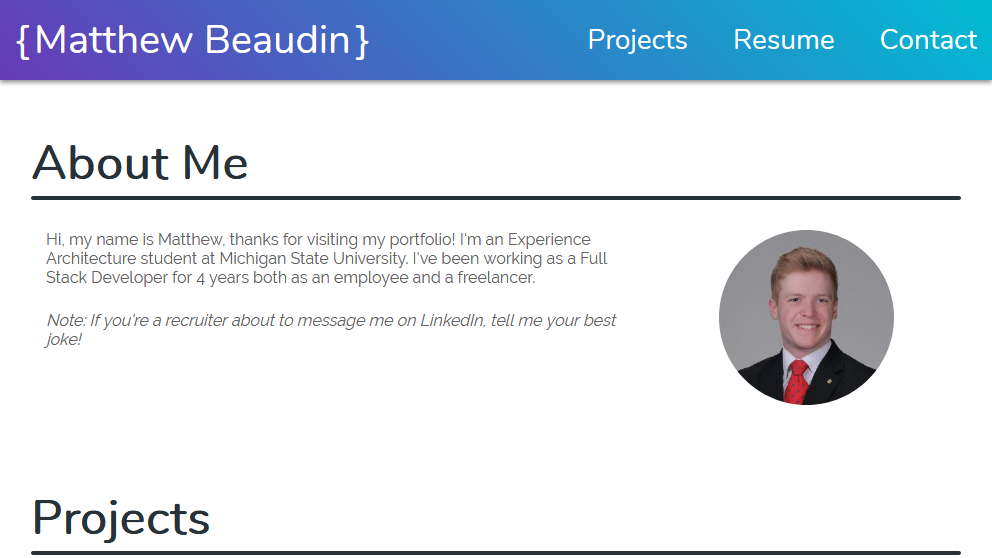
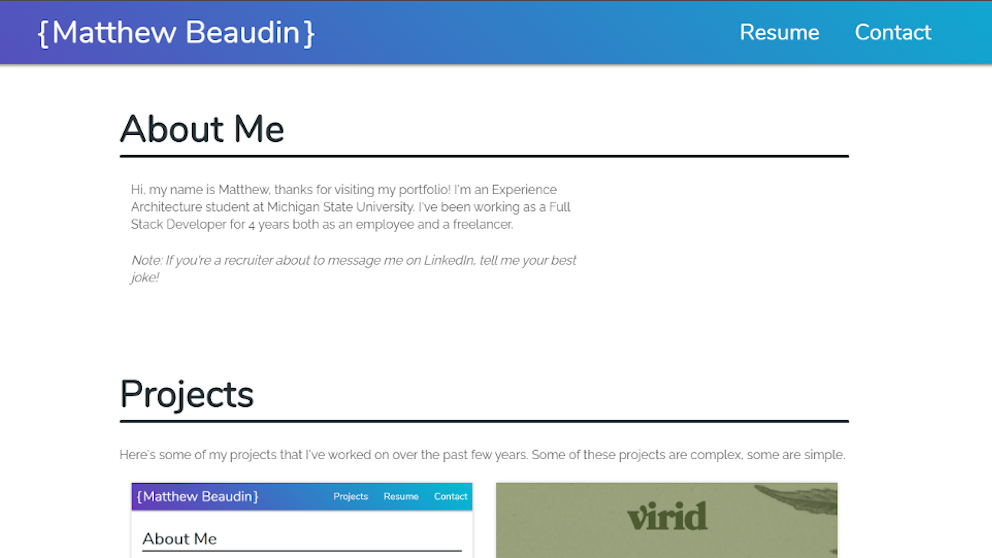
Fixed portfolio-screen, inconsistencies with each .html file, some mobile fixes, and sticky footer.

diff --git a/css/style.min.css b/css/style.min.css
@@ -1,1 +1,1 @@
-@import url(https://fonts.googleapis.com/css?family=Nunito|Raleway);*,::after,::before{box-sizing:border-box;margin:0;padding:0}body{background-color:#fff;color:#616161;font-family:"Raleway",sans-serif;font-weight:400;margin:0}.card{box-shadow:0 0 4px rgba(0,0,0,.25);margin-bottom:30px;transition-duration:200ms;transition-property:all}.card:hover{box-shadow:0 3px 4px rgba(0,0,0,.25);transform:translateY(-1px)}.card .card-img{border-bottom:1px solid #ddd}.card .card-body{padding:15px}.card .card-title{color:#263238;font-size:1.25rem;margin-bottom:15px}img{height:auto;width:100%}img.headshot{width:175px}.pillar{background:#673ab7;height:100%;margin:0 auto;width:4px}.float{box-shadow:0 3px 4px rgba(0,0,0,.25)}.dark-bg{background:#263238}.dark-bg p{color:#ccc}.dark-bg .copyable,.dark-bg h1,.dark-bg label{color:#fff}.dark-bg h1:after{background:#fff}.copyable{cursor:pointer;text-decoration:underline}.social-link{color:#fff;font-size:4rem;margin-right:15px}.social-link:active,.social-link:hover{color:#d9d9d9}.social-link .fa{vertical-align:top}.footer,footer{bottom:0;height:40px;position:fixed;width:100%}.form-group{padding-bottom:15px}.form-group .form-control{border:1px solid #616161;color:#616161;display:block;height:2.5rem;padding:.375rem .75rem;transition-duration:200ms;width:100%}.form-group .form-control:focus{outline:#00bcd4 auto 5px}.btn{border:0;display:inline-block;font-size:1rem;padding:10px 30px;transition-duration:200ms;transition-property:all}.btn:focus,.btn:hover{box-shadow:0 3px 2px rgba(0,0,0,.4);transform:translateY(-3px)}.btn.primary{background-color:#673ab7;color:#fff}.btn.secondary{background-color:#00bcd4;color:#fff}section{padding:30px 0}.container{padding-right:15px;padding-left:15px;margin-right:auto;margin-left:auto;max-width:960px;width:100%}.row{box-sizing:border-box;display:flex;flex:0 1 auto;flex-direction:row;flex-wrap:wrap}@media only screen and (min-width:48em){.container{width:46rem}.col-s{flex-grow:1;flex-basis:0;max-width:100%;padding:0 15px}.col-s-1,.col-s-2{flex-basis:8.3333333333%;max-width:8.3333333333%;padding:0 15px}.col-s-2{flex-basis:16.6666666667%;max-width:16.6666666667%}.col-s-3,.col-s-4{flex-basis:25%;max-width:25%;padding:0 15px}.col-s-4{flex-basis:33.3333333333%;max-width:33.3333333333%}.col-s-5,.col-s-6{flex-basis:41.6666666667%;max-width:41.6666666667%;padding:0 15px}.col-s-6{flex-basis:50%;max-width:50%}.col-s-7,.col-s-8{flex-basis:58.3333333333%;max-width:58.3333333333%;padding:0 15px}.col-s-8{flex-basis:66.6666666667%;max-width:66.6666666667%}.col-s-10,.col-s-9{flex-basis:75%;max-width:75%;padding:0 15px}.col-s-10{flex-basis:83.3333333333%;max-width:83.3333333333%}.col-s-11,.col-s-12{flex-basis:91.6666666667%;max-width:91.6666666667%;padding:0 15px}.col-s-12{flex-basis:100%;max-width:100%}.col-s-off-1{margin-left:8.3333333333%}.col-s-off-2{margin-left:16.6666666667%}.col-s-off-3{margin-left:25%}.col-s-off-4{margin-left:33.3333333333%}.col-s-off-5{margin-left:41.6666666667%}.col-s-off-6{margin-left:50%}.col-s-off-7{margin-left:58.3333333333%}.col-s-off-8{margin-left:66.6666666667%}.col-s-off-9{margin-left:75%}.col-s-off-10{margin-left:83.3333333333%}.col-s-off-11{margin-left:91.6666666667%}.col-s-off-12{margin-left:100%}}@media only screen and (min-width:62em){.container{width:61rem}.col-m{flex-grow:1;flex-basis:0;max-width:100%;padding:0 15px}.col-m-1,.col-m-2{flex-basis:8.3333333333%;max-width:8.3333333333%;padding:0 15px}.col-m-2{flex-basis:16.6666666667%;max-width:16.6666666667%}.col-m-3,.col-m-4{flex-basis:25%;max-width:25%;padding:0 15px}.col-m-4{flex-basis:33.3333333333%;max-width:33.3333333333%}.col-m-5,.col-m-6{flex-basis:41.6666666667%;max-width:41.6666666667%;padding:0 15px}.col-m-6{flex-basis:50%;max-width:50%}.col-m-7,.col-m-8{flex-basis:58.3333333333%;max-width:58.3333333333%;padding:0 15px}.col-m-8{flex-basis:66.6666666667%;max-width:66.6666666667%}.col-m-10,.col-m-9{flex-basis:75%;max-width:75%;padding:0 15px}.col-m-10{flex-basis:83.3333333333%;max-width:83.3333333333%}.col-m-11,.col-m-12{flex-basis:91.6666666667%;max-width:91.6666666667%;padding:0 15px}.col-m-12{flex-basis:100%;max-width:100%}.col-m-off-1{margin-left:8.3333333333%}.col-m-off-2{margin-left:16.6666666667%}.col-m-off-3{margin-left:25%}.col-m-off-4{margin-left:33.3333333333%}.col-m-off-5{margin-left:41.6666666667%}.col-m-off-6{margin-left:50%}.col-m-off-7{margin-left:58.3333333333%}.col-m-off-8{margin-left:66.6666666667%}.col-m-off-9{margin-left:75%}.col-m-off-10{margin-left:83.3333333333%}.col-m-off-11{margin-left:91.6666666667%}.col-m-off-12{margin-left:100%}}@media only screen and (min-width:75em){.container{width:71rem}.col-l{flex-grow:1;flex-basis:0;max-width:100%;padding:0 15px}.col-l-1,.col-l-2{flex-basis:8.3333333333%;max-width:8.3333333333%;padding:0 15px}.col-l-2{flex-basis:16.6666666667%;max-width:16.6666666667%}.col-l-3,.col-l-4{flex-basis:25%;max-width:25%;padding:0 15px}.col-l-4{flex-basis:33.3333333333%;max-width:33.3333333333%}.col-l-5,.col-l-6{flex-basis:41.6666666667%;max-width:41.6666666667%;padding:0 15px}.col-l-6{flex-basis:50%;max-width:50%}.col-l-7,.col-l-8{flex-basis:58.3333333333%;max-width:58.3333333333%;padding:0 15px}.col-l-8{flex-basis:66.6666666667%;max-width:66.6666666667%}.col-l-10,.col-l-9{flex-basis:75%;max-width:75%;padding:0 15px}.col-l-10{flex-basis:83.3333333333%;max-width:83.3333333333%}.col-l-11,.col-l-12{flex-basis:91.6666666667%;max-width:91.6666666667%;padding:0 15px}.col-l-12{flex-basis:100%;max-width:100%}.col-l-off-1{margin-left:8.3333333333%}.col-l-off-2{margin-left:16.6666666667%}.col-l-off-3{margin-left:25%}.col-l-off-4{margin-left:33.3333333333%}.col-l-off-5{margin-left:41.6666666667%}.col-l-off-6{margin-left:50%}.col-l-off-7{margin-left:58.3333333333%}.col-l-off-8{margin-left:66.6666666667%}.col-l-off-9{margin-left:75%}.col-l-off-10{margin-left:83.3333333333%}.col-l-off-11{margin-left:91.6666666667%}.col-l-off-12{margin-left:100%}}nav{background:linear-gradient(45deg,#673ab7,#00bcd4);box-shadow:0 2px 4px rgba(0,0,0,.5);font-family:"Nunito",sans-serif;padding:0}nav .nav-list{align-items:center;color:#fff;display:flex;font-size:1.75rem;font-weight:200;height:80px;list-style:none;padding:0 15px;margin:0 auto;max-width:1200px}nav .nav-list .nav-item{display:none;font-size:1.75rem;font-weight:200;padding-left:45px}nav .nav-list .nav-item a{color:#fff;transition:all 200ms ease-in-out}nav .nav-list .nav-item a:after,nav .nav-list .nav-item a:before{color:transparent;position:absolute;transition:all 200ms ease-out}nav .nav-list .nav-item a.active nav .nav-list .nav-item a:active,nav .nav-list .nav-item a.active nav .nav-list .nav-item a:active:after,nav .nav-list .nav-item a.active nav .nav-list .nav-item a:active:before,nav .nav-list .nav-item a:focus,nav .nav-list .nav-item a:focus:after,nav .nav-list .nav-item a:focus:before,nav .nav-list .nav-item a:hover,nav .nav-list .nav-item a:hover:after,nav .nav-list .nav-item a:hover:before,nav .nav-list .nav-title a.active nav .nav-list .nav-title a:active,nav .nav-list .nav-title a:focus,nav .nav-list .nav-title a:hover{color:#fff}nav .nav-list .nav-item a.active nav .nav-list .nav-item a:active:before,nav .nav-list .nav-item a:focus:before,nav .nav-list .nav-item a:hover:before{transform:translateX(-14px)}nav .nav-list .nav-item a.active nav .nav-list .nav-item a:active:after,nav .nav-list .nav-item a:focus:after,nav .nav-list .nav-item a:hover:after{transform:translateX(4px)}nav .nav-list .nav-item.nav-right{margin-left:auto}nav .nav-list .nav-title{font-size:2.5rem;font-weight:200}nav .nav-list .nav-title a{color:#fff}nav .nav-list .nav-title a:before{content:"{";padding-right:5px}nav .nav-list .nav-title a:after{content:"}";padding-left:5px}nav .nav-list .nav-toggle{background-color:transparent;border:2px solid #fff;cursor:pointer;margin-left:auto;padding:5px 10px;width:75px;transition:all 200ms ease-in-out}nav .nav-list .nav-toggle:active,nav .nav-list .nav-toggle:hover{background-color:#fff}nav .nav-list .nav-toggle:active .icon-bar,nav .nav-list .nav-toggle:hover .icon-bar{background-color:#00bcd4}nav .nav-list .nav-toggle .icon-bar{background-color:#fff;display:block;height:2px;margin:8px 0;padding:0}nav .mobile-list{display:none;padding:0;margin:0}nav .mobile-list.nav-open{display:block}nav .mobile-list .nav-item{background:linear-gradient(45deg,#673ab7,#00bcd4);border-top:2px solid #fff;cursor:pointer;display:block;padding:10px 20px}nav .mobile-list .nav-item.active,nav .mobile-list .nav-item:focus,nav .mobile-list .nav-item:hover{background-color:#673ab7}nav .mobile-list .nav-item a{color:#fff;font-size:2rem}a,nav a{text-decoration:none}@media (min-width:48em){nav .nav-list .nav-item{display:inline}nav .nav-list .nav-item a:before{content:"{";transform:translateX(-7px)}nav .nav-list .nav-item a:after{content:"}"}.mobile-list,.nav-toggle{display:none}}h1,h2,h3,h4,h5,h6{color:#263238;font-family:"Nunito",sans-serif;font-weight:800}h5{color:#616161}h1{font-size:3rem;margin-top:20px;margin-bottom:30px}h1:after{background:#263238;border-radius:4px;content:"";display:block;height:4px;width:100%}h2{margin-top:15px;font-size:2rem}label{font-family:"Raleway",sans-serif;font-size:1.5rem;margin-bottom:0;color:#673ab7}a{color:#00bcd4}p{margin-top:0;margin-bottom:1.5rem}p,ul{line-height:1.4}.hidden{display:none!important}.border-circle{border-radius:50%;display:block;margin:0 auto}
+@import"https://fonts.googleapis.com/css?family=Nunito|Raleway";*,*::before,*::after{box-sizing:border-box;margin:0;padding:0}html{position:relative;min-height:100%}body{background-color:#fff;color:#616161;font-family:"Raleway",sans-serif;font-weight:400;margin:0 0 275px}.card{box-shadow:0 0px 4px rgba(0,0,0,.25);margin-bottom:30px;transition-duration:200ms;transition-property:all}.card:hover{box-shadow:0 3px 4px rgba(0,0,0,.25);transform:translateY(-1px)}.card .card-img{border-bottom:1px solid #ddd}.card .card-body{padding:15px}.card .card-title{color:#263238;font-size:1.25rem;margin-bottom:15px}img{height:auto;width:100%}img.headshot{width:175px}.pillar{background:#673ab7;height:100%;margin:0 auto;width:4px}.float{box-shadow:0 3px 4px rgba(0,0,0,.25)}.dark-bg{background:#263238}.dark-bg p{color:#ccc}.dark-bg h1,.dark-bg label{color:#fff}.dark-bg h1:after{background:#fff}.dark-bg .copyable{color:#fff}.copyable{cursor:pointer;text-decoration:underline}.social-link{color:#fff;font-size:4rem;margin-right:15px}.social-link:hover,.social-link:active{color:#d9d9d9}.social-link .fa{vertical-align:top}footer,.footer{position:absolute;left:0;bottom:0;height:275px;width:100%}.form-group{padding-bottom:15px}.form-group .form-control{border:1px solid #616161;color:#616161;display:block;height:2.5rem;padding:.375rem .75rem;transition-duration:200ms;width:100%}.form-group .form-control:focus{outline:#00bcd4 auto 5px}.btn{border:0;display:inline-block;font-size:1rem;padding:10px 30px;transition-duration:200ms;transition-property:all}.btn:hover,.btn:focus{box-shadow:0 3px 2px rgba(0,0,0,.4);transform:translateY(-3px)}.btn.primary{background-color:#673ab7;color:#fff}.btn.secondary{background-color:#00bcd4;color:#fff}section{padding:30px 0}.container{padding-right:15px;padding-left:15px;margin-right:auto;margin-left:auto;max-width:960px;width:100%}.row{box-sizing:border-box;display:flex;flex:0 1 auto;flex-direction:row;flex-wrap:wrap}.col-s,.col-s-1{padding:0 15px}@media only screen and (min-width: 48em){.container{width:46rem}.col-s{flex-grow:1;flex-basis:0;max-width:100%}.col-s-1{flex-basis:8.3333333333%;max-width:8.3333333333%}.col-s-off-1{margin-left:8.3333333333%}.col-s-off-2{margin-left:16.6666666667%}.col-s-off-3{margin-left:25%}.col-s-off-4{margin-left:33.3333333333%}.col-s-off-5{margin-left:41.6666666667%}.col-s-off-6{margin-left:50%}.col-s-off-7{margin-left:58.3333333333%}.col-s-off-8{margin-left:66.6666666667%}.col-s-off-9{margin-left:75%}.col-s-off-10{margin-left:83.3333333333%}.col-s-off-11{margin-left:91.6666666667%}.col-s-off-12{margin-left:100%}}.col-s,.col-s-2{padding:0 15px}@media only screen and (min-width: 48em){.container{width:46rem}.col-s{flex-grow:1;flex-basis:0;max-width:100%}.col-s-2{flex-basis:16.6666666667%;max-width:16.6666666667%}.col-s-off-1{margin-left:8.3333333333%}.col-s-off-2{margin-left:16.6666666667%}.col-s-off-3{margin-left:25%}.col-s-off-4{margin-left:33.3333333333%}.col-s-off-5{margin-left:41.6666666667%}.col-s-off-6{margin-left:50%}.col-s-off-7{margin-left:58.3333333333%}.col-s-off-8{margin-left:66.6666666667%}.col-s-off-9{margin-left:75%}.col-s-off-10{margin-left:83.3333333333%}.col-s-off-11{margin-left:91.6666666667%}.col-s-off-12{margin-left:100%}}.col-s,.col-s-3{padding:0 15px}@media only screen and (min-width: 48em){.container{width:46rem}.col-s{flex-grow:1;flex-basis:0;max-width:100%}.col-s-3{flex-basis:25%;max-width:25%}.col-s-off-1{margin-left:8.3333333333%}.col-s-off-2{margin-left:16.6666666667%}.col-s-off-3{margin-left:25%}.col-s-off-4{margin-left:33.3333333333%}.col-s-off-5{margin-left:41.6666666667%}.col-s-off-6{margin-left:50%}.col-s-off-7{margin-left:58.3333333333%}.col-s-off-8{margin-left:66.6666666667%}.col-s-off-9{margin-left:75%}.col-s-off-10{margin-left:83.3333333333%}.col-s-off-11{margin-left:91.6666666667%}.col-s-off-12{margin-left:100%}}.col-s,.col-s-4{padding:0 15px}@media only screen and (min-width: 48em){.container{width:46rem}.col-s{flex-grow:1;flex-basis:0;max-width:100%}.col-s-4{flex-basis:33.3333333333%;max-width:33.3333333333%}.col-s-off-1{margin-left:8.3333333333%}.col-s-off-2{margin-left:16.6666666667%}.col-s-off-3{margin-left:25%}.col-s-off-4{margin-left:33.3333333333%}.col-s-off-5{margin-left:41.6666666667%}.col-s-off-6{margin-left:50%}.col-s-off-7{margin-left:58.3333333333%}.col-s-off-8{margin-left:66.6666666667%}.col-s-off-9{margin-left:75%}.col-s-off-10{margin-left:83.3333333333%}.col-s-off-11{margin-left:91.6666666667%}.col-s-off-12{margin-left:100%}}.col-s,.col-s-5{padding:0 15px}@media only screen and (min-width: 48em){.container{width:46rem}.col-s{flex-grow:1;flex-basis:0;max-width:100%}.col-s-5{flex-basis:41.6666666667%;max-width:41.6666666667%}.col-s-off-1{margin-left:8.3333333333%}.col-s-off-2{margin-left:16.6666666667%}.col-s-off-3{margin-left:25%}.col-s-off-4{margin-left:33.3333333333%}.col-s-off-5{margin-left:41.6666666667%}.col-s-off-6{margin-left:50%}.col-s-off-7{margin-left:58.3333333333%}.col-s-off-8{margin-left:66.6666666667%}.col-s-off-9{margin-left:75%}.col-s-off-10{margin-left:83.3333333333%}.col-s-off-11{margin-left:91.6666666667%}.col-s-off-12{margin-left:100%}}.col-s,.col-s-6{padding:0 15px}@media only screen and (min-width: 48em){.container{width:46rem}.col-s{flex-grow:1;flex-basis:0;max-width:100%}.col-s-6{flex-basis:50%;max-width:50%}.col-s-off-1{margin-left:8.3333333333%}.col-s-off-2{margin-left:16.6666666667%}.col-s-off-3{margin-left:25%}.col-s-off-4{margin-left:33.3333333333%}.col-s-off-5{margin-left:41.6666666667%}.col-s-off-6{margin-left:50%}.col-s-off-7{margin-left:58.3333333333%}.col-s-off-8{margin-left:66.6666666667%}.col-s-off-9{margin-left:75%}.col-s-off-10{margin-left:83.3333333333%}.col-s-off-11{margin-left:91.6666666667%}.col-s-off-12{margin-left:100%}}.col-s,.col-s-7{padding:0 15px}@media only screen and (min-width: 48em){.container{width:46rem}.col-s{flex-grow:1;flex-basis:0;max-width:100%}.col-s-7{flex-basis:58.3333333333%;max-width:58.3333333333%}.col-s-off-1{margin-left:8.3333333333%}.col-s-off-2{margin-left:16.6666666667%}.col-s-off-3{margin-left:25%}.col-s-off-4{margin-left:33.3333333333%}.col-s-off-5{margin-left:41.6666666667%}.col-s-off-6{margin-left:50%}.col-s-off-7{margin-left:58.3333333333%}.col-s-off-8{margin-left:66.6666666667%}.col-s-off-9{margin-left:75%}.col-s-off-10{margin-left:83.3333333333%}.col-s-off-11{margin-left:91.6666666667%}.col-s-off-12{margin-left:100%}}.col-s,.col-s-8{padding:0 15px}@media only screen and (min-width: 48em){.container{width:46rem}.col-s{flex-grow:1;flex-basis:0;max-width:100%}.col-s-8{flex-basis:66.6666666667%;max-width:66.6666666667%}.col-s-off-1{margin-left:8.3333333333%}.col-s-off-2{margin-left:16.6666666667%}.col-s-off-3{margin-left:25%}.col-s-off-4{margin-left:33.3333333333%}.col-s-off-5{margin-left:41.6666666667%}.col-s-off-6{margin-left:50%}.col-s-off-7{margin-left:58.3333333333%}.col-s-off-8{margin-left:66.6666666667%}.col-s-off-9{margin-left:75%}.col-s-off-10{margin-left:83.3333333333%}.col-s-off-11{margin-left:91.6666666667%}.col-s-off-12{margin-left:100%}}.col-s,.col-s-9{padding:0 15px}@media only screen and (min-width: 48em){.container{width:46rem}.col-s{flex-grow:1;flex-basis:0;max-width:100%}.col-s-9{flex-basis:75%;max-width:75%}.col-s-off-1{margin-left:8.3333333333%}.col-s-off-2{margin-left:16.6666666667%}.col-s-off-3{margin-left:25%}.col-s-off-4{margin-left:33.3333333333%}.col-s-off-5{margin-left:41.6666666667%}.col-s-off-6{margin-left:50%}.col-s-off-7{margin-left:58.3333333333%}.col-s-off-8{margin-left:66.6666666667%}.col-s-off-9{margin-left:75%}.col-s-off-10{margin-left:83.3333333333%}.col-s-off-11{margin-left:91.6666666667%}.col-s-off-12{margin-left:100%}}.col-s,.col-s-10{padding:0 15px}@media only screen and (min-width: 48em){.container{width:46rem}.col-s{flex-grow:1;flex-basis:0;max-width:100%}.col-s-10{flex-basis:83.3333333333%;max-width:83.3333333333%}.col-s-off-1{margin-left:8.3333333333%}.col-s-off-2{margin-left:16.6666666667%}.col-s-off-3{margin-left:25%}.col-s-off-4{margin-left:33.3333333333%}.col-s-off-5{margin-left:41.6666666667%}.col-s-off-6{margin-left:50%}.col-s-off-7{margin-left:58.3333333333%}.col-s-off-8{margin-left:66.6666666667%}.col-s-off-9{margin-left:75%}.col-s-off-10{margin-left:83.3333333333%}.col-s-off-11{margin-left:91.6666666667%}.col-s-off-12{margin-left:100%}}.col-s,.col-s-11{padding:0 15px}@media only screen and (min-width: 48em){.container{width:46rem}.col-s{flex-grow:1;flex-basis:0;max-width:100%}.col-s-11{flex-basis:91.6666666667%;max-width:91.6666666667%}.col-s-off-1{margin-left:8.3333333333%}.col-s-off-2{margin-left:16.6666666667%}.col-s-off-3{margin-left:25%}.col-s-off-4{margin-left:33.3333333333%}.col-s-off-5{margin-left:41.6666666667%}.col-s-off-6{margin-left:50%}.col-s-off-7{margin-left:58.3333333333%}.col-s-off-8{margin-left:66.6666666667%}.col-s-off-9{margin-left:75%}.col-s-off-10{margin-left:83.3333333333%}.col-s-off-11{margin-left:91.6666666667%}.col-s-off-12{margin-left:100%}}.col-s,.col-s-12{padding:0 15px}@media only screen and (min-width: 48em){.container{width:46rem}.col-s{flex-grow:1;flex-basis:0;max-width:100%}.col-s-12{flex-basis:100%;max-width:100%}.col-s-off-1{margin-left:8.3333333333%}.col-s-off-2{margin-left:16.6666666667%}.col-s-off-3{margin-left:25%}.col-s-off-4{margin-left:33.3333333333%}.col-s-off-5{margin-left:41.6666666667%}.col-s-off-6{margin-left:50%}.col-s-off-7{margin-left:58.3333333333%}.col-s-off-8{margin-left:66.6666666667%}.col-s-off-9{margin-left:75%}.col-s-off-10{margin-left:83.3333333333%}.col-s-off-11{margin-left:91.6666666667%}.col-s-off-12{margin-left:100%}}.col-m,.col-m-1{padding:0 15px}@media only screen and (min-width: 62em){.container{width:61rem}.col-m{flex-grow:1;flex-basis:0;max-width:100%}.col-m-1{flex-basis:8.3333333333%;max-width:8.3333333333%}.col-m-off-1{margin-left:8.3333333333%}.col-m-off-2{margin-left:16.6666666667%}.col-m-off-3{margin-left:25%}.col-m-off-4{margin-left:33.3333333333%}.col-m-off-5{margin-left:41.6666666667%}.col-m-off-6{margin-left:50%}.col-m-off-7{margin-left:58.3333333333%}.col-m-off-8{margin-left:66.6666666667%}.col-m-off-9{margin-left:75%}.col-m-off-10{margin-left:83.3333333333%}.col-m-off-11{margin-left:91.6666666667%}.col-m-off-12{margin-left:100%}}.col-m,.col-m-2{padding:0 15px}@media only screen and (min-width: 62em){.container{width:61rem}.col-m{flex-grow:1;flex-basis:0;max-width:100%}.col-m-2{flex-basis:16.6666666667%;max-width:16.6666666667%}.col-m-off-1{margin-left:8.3333333333%}.col-m-off-2{margin-left:16.6666666667%}.col-m-off-3{margin-left:25%}.col-m-off-4{margin-left:33.3333333333%}.col-m-off-5{margin-left:41.6666666667%}.col-m-off-6{margin-left:50%}.col-m-off-7{margin-left:58.3333333333%}.col-m-off-8{margin-left:66.6666666667%}.col-m-off-9{margin-left:75%}.col-m-off-10{margin-left:83.3333333333%}.col-m-off-11{margin-left:91.6666666667%}.col-m-off-12{margin-left:100%}}.col-m,.col-m-3{padding:0 15px}@media only screen and (min-width: 62em){.container{width:61rem}.col-m{flex-grow:1;flex-basis:0;max-width:100%}.col-m-3{flex-basis:25%;max-width:25%}.col-m-off-1{margin-left:8.3333333333%}.col-m-off-2{margin-left:16.6666666667%}.col-m-off-3{margin-left:25%}.col-m-off-4{margin-left:33.3333333333%}.col-m-off-5{margin-left:41.6666666667%}.col-m-off-6{margin-left:50%}.col-m-off-7{margin-left:58.3333333333%}.col-m-off-8{margin-left:66.6666666667%}.col-m-off-9{margin-left:75%}.col-m-off-10{margin-left:83.3333333333%}.col-m-off-11{margin-left:91.6666666667%}.col-m-off-12{margin-left:100%}}.col-m,.col-m-4{padding:0 15px}@media only screen and (min-width: 62em){.container{width:61rem}.col-m{flex-grow:1;flex-basis:0;max-width:100%}.col-m-4{flex-basis:33.3333333333%;max-width:33.3333333333%}.col-m-off-1{margin-left:8.3333333333%}.col-m-off-2{margin-left:16.6666666667%}.col-m-off-3{margin-left:25%}.col-m-off-4{margin-left:33.3333333333%}.col-m-off-5{margin-left:41.6666666667%}.col-m-off-6{margin-left:50%}.col-m-off-7{margin-left:58.3333333333%}.col-m-off-8{margin-left:66.6666666667%}.col-m-off-9{margin-left:75%}.col-m-off-10{margin-left:83.3333333333%}.col-m-off-11{margin-left:91.6666666667%}.col-m-off-12{margin-left:100%}}.col-m,.col-m-5{padding:0 15px}@media only screen and (min-width: 62em){.container{width:61rem}.col-m{flex-grow:1;flex-basis:0;max-width:100%}.col-m-5{flex-basis:41.6666666667%;max-width:41.6666666667%}.col-m-off-1{margin-left:8.3333333333%}.col-m-off-2{margin-left:16.6666666667%}.col-m-off-3{margin-left:25%}.col-m-off-4{margin-left:33.3333333333%}.col-m-off-5{margin-left:41.6666666667%}.col-m-off-6{margin-left:50%}.col-m-off-7{margin-left:58.3333333333%}.col-m-off-8{margin-left:66.6666666667%}.col-m-off-9{margin-left:75%}.col-m-off-10{margin-left:83.3333333333%}.col-m-off-11{margin-left:91.6666666667%}.col-m-off-12{margin-left:100%}}.col-m,.col-m-6{padding:0 15px}@media only screen and (min-width: 62em){.container{width:61rem}.col-m{flex-grow:1;flex-basis:0;max-width:100%}.col-m-6{flex-basis:50%;max-width:50%}.col-m-off-1{margin-left:8.3333333333%}.col-m-off-2{margin-left:16.6666666667%}.col-m-off-3{margin-left:25%}.col-m-off-4{margin-left:33.3333333333%}.col-m-off-5{margin-left:41.6666666667%}.col-m-off-6{margin-left:50%}.col-m-off-7{margin-left:58.3333333333%}.col-m-off-8{margin-left:66.6666666667%}.col-m-off-9{margin-left:75%}.col-m-off-10{margin-left:83.3333333333%}.col-m-off-11{margin-left:91.6666666667%}.col-m-off-12{margin-left:100%}}.col-m,.col-m-7{padding:0 15px}@media only screen and (min-width: 62em){.container{width:61rem}.col-m{flex-grow:1;flex-basis:0;max-width:100%}.col-m-7{flex-basis:58.3333333333%;max-width:58.3333333333%}.col-m-off-1{margin-left:8.3333333333%}.col-m-off-2{margin-left:16.6666666667%}.col-m-off-3{margin-left:25%}.col-m-off-4{margin-left:33.3333333333%}.col-m-off-5{margin-left:41.6666666667%}.col-m-off-6{margin-left:50%}.col-m-off-7{margin-left:58.3333333333%}.col-m-off-8{margin-left:66.6666666667%}.col-m-off-9{margin-left:75%}.col-m-off-10{margin-left:83.3333333333%}.col-m-off-11{margin-left:91.6666666667%}.col-m-off-12{margin-left:100%}}.col-m,.col-m-8{padding:0 15px}@media only screen and (min-width: 62em){.container{width:61rem}.col-m{flex-grow:1;flex-basis:0;max-width:100%}.col-m-8{flex-basis:66.6666666667%;max-width:66.6666666667%}.col-m-off-1{margin-left:8.3333333333%}.col-m-off-2{margin-left:16.6666666667%}.col-m-off-3{margin-left:25%}.col-m-off-4{margin-left:33.3333333333%}.col-m-off-5{margin-left:41.6666666667%}.col-m-off-6{margin-left:50%}.col-m-off-7{margin-left:58.3333333333%}.col-m-off-8{margin-left:66.6666666667%}.col-m-off-9{margin-left:75%}.col-m-off-10{margin-left:83.3333333333%}.col-m-off-11{margin-left:91.6666666667%}.col-m-off-12{margin-left:100%}}.col-m,.col-m-9{padding:0 15px}@media only screen and (min-width: 62em){.container{width:61rem}.col-m{flex-grow:1;flex-basis:0;max-width:100%}.col-m-9{flex-basis:75%;max-width:75%}.col-m-off-1{margin-left:8.3333333333%}.col-m-off-2{margin-left:16.6666666667%}.col-m-off-3{margin-left:25%}.col-m-off-4{margin-left:33.3333333333%}.col-m-off-5{margin-left:41.6666666667%}.col-m-off-6{margin-left:50%}.col-m-off-7{margin-left:58.3333333333%}.col-m-off-8{margin-left:66.6666666667%}.col-m-off-9{margin-left:75%}.col-m-off-10{margin-left:83.3333333333%}.col-m-off-11{margin-left:91.6666666667%}.col-m-off-12{margin-left:100%}}.col-m,.col-m-10{padding:0 15px}@media only screen and (min-width: 62em){.container{width:61rem}.col-m{flex-grow:1;flex-basis:0;max-width:100%}.col-m-10{flex-basis:83.3333333333%;max-width:83.3333333333%}.col-m-off-1{margin-left:8.3333333333%}.col-m-off-2{margin-left:16.6666666667%}.col-m-off-3{margin-left:25%}.col-m-off-4{margin-left:33.3333333333%}.col-m-off-5{margin-left:41.6666666667%}.col-m-off-6{margin-left:50%}.col-m-off-7{margin-left:58.3333333333%}.col-m-off-8{margin-left:66.6666666667%}.col-m-off-9{margin-left:75%}.col-m-off-10{margin-left:83.3333333333%}.col-m-off-11{margin-left:91.6666666667%}.col-m-off-12{margin-left:100%}}.col-m,.col-m-11{padding:0 15px}@media only screen and (min-width: 62em){.container{width:61rem}.col-m{flex-grow:1;flex-basis:0;max-width:100%}.col-m-11{flex-basis:91.6666666667%;max-width:91.6666666667%}.col-m-off-1{margin-left:8.3333333333%}.col-m-off-2{margin-left:16.6666666667%}.col-m-off-3{margin-left:25%}.col-m-off-4{margin-left:33.3333333333%}.col-m-off-5{margin-left:41.6666666667%}.col-m-off-6{margin-left:50%}.col-m-off-7{margin-left:58.3333333333%}.col-m-off-8{margin-left:66.6666666667%}.col-m-off-9{margin-left:75%}.col-m-off-10{margin-left:83.3333333333%}.col-m-off-11{margin-left:91.6666666667%}.col-m-off-12{margin-left:100%}}.col-m,.col-m-12{padding:0 15px}@media only screen and (min-width: 62em){.container{width:61rem}.col-m{flex-grow:1;flex-basis:0;max-width:100%}.col-m-12{flex-basis:100%;max-width:100%}.col-m-off-1{margin-left:8.3333333333%}.col-m-off-2{margin-left:16.6666666667%}.col-m-off-3{margin-left:25%}.col-m-off-4{margin-left:33.3333333333%}.col-m-off-5{margin-left:41.6666666667%}.col-m-off-6{margin-left:50%}.col-m-off-7{margin-left:58.3333333333%}.col-m-off-8{margin-left:66.6666666667%}.col-m-off-9{margin-left:75%}.col-m-off-10{margin-left:83.3333333333%}.col-m-off-11{margin-left:91.6666666667%}.col-m-off-12{margin-left:100%}}.col-l,.col-l-1{padding:0 15px}@media only screen and (min-width: 75em){.container{width:71rem}.col-l{flex-grow:1;flex-basis:0;max-width:100%}.col-l-1{flex-basis:8.3333333333%;max-width:8.3333333333%}.col-l-off-1{margin-left:8.3333333333%}.col-l-off-2{margin-left:16.6666666667%}.col-l-off-3{margin-left:25%}.col-l-off-4{margin-left:33.3333333333%}.col-l-off-5{margin-left:41.6666666667%}.col-l-off-6{margin-left:50%}.col-l-off-7{margin-left:58.3333333333%}.col-l-off-8{margin-left:66.6666666667%}.col-l-off-9{margin-left:75%}.col-l-off-10{margin-left:83.3333333333%}.col-l-off-11{margin-left:91.6666666667%}.col-l-off-12{margin-left:100%}}.col-l,.col-l-2{padding:0 15px}@media only screen and (min-width: 75em){.container{width:71rem}.col-l{flex-grow:1;flex-basis:0;max-width:100%}.col-l-2{flex-basis:16.6666666667%;max-width:16.6666666667%}.col-l-off-1{margin-left:8.3333333333%}.col-l-off-2{margin-left:16.6666666667%}.col-l-off-3{margin-left:25%}.col-l-off-4{margin-left:33.3333333333%}.col-l-off-5{margin-left:41.6666666667%}.col-l-off-6{margin-left:50%}.col-l-off-7{margin-left:58.3333333333%}.col-l-off-8{margin-left:66.6666666667%}.col-l-off-9{margin-left:75%}.col-l-off-10{margin-left:83.3333333333%}.col-l-off-11{margin-left:91.6666666667%}.col-l-off-12{margin-left:100%}}.col-l,.col-l-3{padding:0 15px}@media only screen and (min-width: 75em){.container{width:71rem}.col-l{flex-grow:1;flex-basis:0;max-width:100%}.col-l-3{flex-basis:25%;max-width:25%}.col-l-off-1{margin-left:8.3333333333%}.col-l-off-2{margin-left:16.6666666667%}.col-l-off-3{margin-left:25%}.col-l-off-4{margin-left:33.3333333333%}.col-l-off-5{margin-left:41.6666666667%}.col-l-off-6{margin-left:50%}.col-l-off-7{margin-left:58.3333333333%}.col-l-off-8{margin-left:66.6666666667%}.col-l-off-9{margin-left:75%}.col-l-off-10{margin-left:83.3333333333%}.col-l-off-11{margin-left:91.6666666667%}.col-l-off-12{margin-left:100%}}.col-l,.col-l-4{padding:0 15px}@media only screen and (min-width: 75em){.container{width:71rem}.col-l{flex-grow:1;flex-basis:0;max-width:100%}.col-l-4{flex-basis:33.3333333333%;max-width:33.3333333333%}.col-l-off-1{margin-left:8.3333333333%}.col-l-off-2{margin-left:16.6666666667%}.col-l-off-3{margin-left:25%}.col-l-off-4{margin-left:33.3333333333%}.col-l-off-5{margin-left:41.6666666667%}.col-l-off-6{margin-left:50%}.col-l-off-7{margin-left:58.3333333333%}.col-l-off-8{margin-left:66.6666666667%}.col-l-off-9{margin-left:75%}.col-l-off-10{margin-left:83.3333333333%}.col-l-off-11{margin-left:91.6666666667%}.col-l-off-12{margin-left:100%}}.col-l,.col-l-5{padding:0 15px}@media only screen and (min-width: 75em){.container{width:71rem}.col-l{flex-grow:1;flex-basis:0;max-width:100%}.col-l-5{flex-basis:41.6666666667%;max-width:41.6666666667%}.col-l-off-1{margin-left:8.3333333333%}.col-l-off-2{margin-left:16.6666666667%}.col-l-off-3{margin-left:25%}.col-l-off-4{margin-left:33.3333333333%}.col-l-off-5{margin-left:41.6666666667%}.col-l-off-6{margin-left:50%}.col-l-off-7{margin-left:58.3333333333%}.col-l-off-8{margin-left:66.6666666667%}.col-l-off-9{margin-left:75%}.col-l-off-10{margin-left:83.3333333333%}.col-l-off-11{margin-left:91.6666666667%}.col-l-off-12{margin-left:100%}}.col-l,.col-l-6{padding:0 15px}@media only screen and (min-width: 75em){.container{width:71rem}.col-l{flex-grow:1;flex-basis:0;max-width:100%}.col-l-6{flex-basis:50%;max-width:50%}.col-l-off-1{margin-left:8.3333333333%}.col-l-off-2{margin-left:16.6666666667%}.col-l-off-3{margin-left:25%}.col-l-off-4{margin-left:33.3333333333%}.col-l-off-5{margin-left:41.6666666667%}.col-l-off-6{margin-left:50%}.col-l-off-7{margin-left:58.3333333333%}.col-l-off-8{margin-left:66.6666666667%}.col-l-off-9{margin-left:75%}.col-l-off-10{margin-left:83.3333333333%}.col-l-off-11{margin-left:91.6666666667%}.col-l-off-12{margin-left:100%}}.col-l,.col-l-7{padding:0 15px}@media only screen and (min-width: 75em){.container{width:71rem}.col-l{flex-grow:1;flex-basis:0;max-width:100%}.col-l-7{flex-basis:58.3333333333%;max-width:58.3333333333%}.col-l-off-1{margin-left:8.3333333333%}.col-l-off-2{margin-left:16.6666666667%}.col-l-off-3{margin-left:25%}.col-l-off-4{margin-left:33.3333333333%}.col-l-off-5{margin-left:41.6666666667%}.col-l-off-6{margin-left:50%}.col-l-off-7{margin-left:58.3333333333%}.col-l-off-8{margin-left:66.6666666667%}.col-l-off-9{margin-left:75%}.col-l-off-10{margin-left:83.3333333333%}.col-l-off-11{margin-left:91.6666666667%}.col-l-off-12{margin-left:100%}}.col-l,.col-l-8{padding:0 15px}@media only screen and (min-width: 75em){.container{width:71rem}.col-l{flex-grow:1;flex-basis:0;max-width:100%}.col-l-8{flex-basis:66.6666666667%;max-width:66.6666666667%}.col-l-off-1{margin-left:8.3333333333%}.col-l-off-2{margin-left:16.6666666667%}.col-l-off-3{margin-left:25%}.col-l-off-4{margin-left:33.3333333333%}.col-l-off-5{margin-left:41.6666666667%}.col-l-off-6{margin-left:50%}.col-l-off-7{margin-left:58.3333333333%}.col-l-off-8{margin-left:66.6666666667%}.col-l-off-9{margin-left:75%}.col-l-off-10{margin-left:83.3333333333%}.col-l-off-11{margin-left:91.6666666667%}.col-l-off-12{margin-left:100%}}.col-l,.col-l-9{padding:0 15px}@media only screen and (min-width: 75em){.container{width:71rem}.col-l{flex-grow:1;flex-basis:0;max-width:100%}.col-l-9{flex-basis:75%;max-width:75%}.col-l-off-1{margin-left:8.3333333333%}.col-l-off-2{margin-left:16.6666666667%}.col-l-off-3{margin-left:25%}.col-l-off-4{margin-left:33.3333333333%}.col-l-off-5{margin-left:41.6666666667%}.col-l-off-6{margin-left:50%}.col-l-off-7{margin-left:58.3333333333%}.col-l-off-8{margin-left:66.6666666667%}.col-l-off-9{margin-left:75%}.col-l-off-10{margin-left:83.3333333333%}.col-l-off-11{margin-left:91.6666666667%}.col-l-off-12{margin-left:100%}}.col-l,.col-l-10{padding:0 15px}@media only screen and (min-width: 75em){.container{width:71rem}.col-l{flex-grow:1;flex-basis:0;max-width:100%}.col-l-10{flex-basis:83.3333333333%;max-width:83.3333333333%}.col-l-off-1{margin-left:8.3333333333%}.col-l-off-2{margin-left:16.6666666667%}.col-l-off-3{margin-left:25%}.col-l-off-4{margin-left:33.3333333333%}.col-l-off-5{margin-left:41.6666666667%}.col-l-off-6{margin-left:50%}.col-l-off-7{margin-left:58.3333333333%}.col-l-off-8{margin-left:66.6666666667%}.col-l-off-9{margin-left:75%}.col-l-off-10{margin-left:83.3333333333%}.col-l-off-11{margin-left:91.6666666667%}.col-l-off-12{margin-left:100%}}.col-l,.col-l-11{padding:0 15px}@media only screen and (min-width: 75em){.container{width:71rem}.col-l{flex-grow:1;flex-basis:0;max-width:100%}.col-l-11{flex-basis:91.6666666667%;max-width:91.6666666667%}.col-l-off-1{margin-left:8.3333333333%}.col-l-off-2{margin-left:16.6666666667%}.col-l-off-3{margin-left:25%}.col-l-off-4{margin-left:33.3333333333%}.col-l-off-5{margin-left:41.6666666667%}.col-l-off-6{margin-left:50%}.col-l-off-7{margin-left:58.3333333333%}.col-l-off-8{margin-left:66.6666666667%}.col-l-off-9{margin-left:75%}.col-l-off-10{margin-left:83.3333333333%}.col-l-off-11{margin-left:91.6666666667%}.col-l-off-12{margin-left:100%}}.col-l,.col-l-12{padding:0 15px}@media only screen and (min-width: 75em){.container{width:71rem}.col-l{flex-grow:1;flex-basis:0;max-width:100%}.col-l-12{flex-basis:100%;max-width:100%}.col-l-off-1{margin-left:8.3333333333%}.col-l-off-2{margin-left:16.6666666667%}.col-l-off-3{margin-left:25%}.col-l-off-4{margin-left:33.3333333333%}.col-l-off-5{margin-left:41.6666666667%}.col-l-off-6{margin-left:50%}.col-l-off-7{margin-left:58.3333333333%}.col-l-off-8{margin-left:66.6666666667%}.col-l-off-9{margin-left:75%}.col-l-off-10{margin-left:83.3333333333%}.col-l-off-11{margin-left:91.6666666667%}.col-l-off-12{margin-left:100%}}nav{background:linear-gradient(45deg, #673AB7, #00BCD4);box-shadow:0 2px 4px rgba(0,0,0,.5);font-family:"Nunito",sans-serif;padding:0}nav .nav-list{align-items:center;color:#fff;display:flex;font-size:1.75rem;font-weight:200;height:80px;list-style:none;padding:0 30px;margin:0 auto;max-width:1200px}nav .nav-list .nav-item{display:none;font-size:1.75rem;font-weight:200;padding-left:45px}nav .nav-list .nav-item a{color:#fff;transition:all 200ms ease-in-out}nav .nav-list .nav-item a:before,nav .nav-list .nav-item a:after{color:transparent;position:absolute;transition:all 200ms ease-out}nav .nav-list .nav-item a.active nav .nav-list .nav-item a:active,nav .nav-list .nav-item a:focus,nav .nav-list .nav-item a:hover{color:#fff}nav .nav-list .nav-item a.active nav .nav-list .nav-item a:active:before,nav .nav-list .nav-item a.active nav .nav-list .nav-item a:active:after,nav .nav-list .nav-item a:focus:before,nav .nav-list .nav-item a:focus:after,nav .nav-list .nav-item a:hover:before,nav .nav-list .nav-item a:hover:after{color:#fff}nav .nav-list .nav-item a.active nav .nav-list .nav-item a:active:before,nav .nav-list .nav-item a:focus:before,nav .nav-list .nav-item a:hover:before{transform:translateX(-14px)}nav .nav-list .nav-item a.active nav .nav-list .nav-item a:active:after,nav .nav-list .nav-item a:focus:after,nav .nav-list .nav-item a:hover:after{transform:translateX(4px)}nav .nav-list .nav-item.nav-right{margin-left:auto}nav .nav-list .nav-title a{color:#fff;font-size:2.125rem;font-weight:200}nav .nav-list .nav-title a:before{content:"{";padding-right:5px}nav .nav-list .nav-title a:after{content:"}";padding-left:5px}nav .nav-list .nav-title a.active nav .nav-list .nav-title a:active,nav .nav-list .nav-title a:focus,nav .nav-list .nav-title a:hover{color:#fff}nav .nav-list .nav-toggle{background-color:transparent;border:2px solid #fff;border-radius:4px;cursor:pointer;margin-left:auto;padding:5px 10px;width:75px;transition:all 200ms ease-in-out}nav .nav-list .nav-toggle:hover,nav .nav-list .nav-toggle:active{background-color:#fff}nav .nav-list .nav-toggle:hover .icon-bar,nav .nav-list .nav-toggle:active .icon-bar{background-color:#00bcd4}nav .nav-list .nav-toggle .icon-bar{background-color:#fff;border-radius:4px;display:block;height:2px;margin:8px 0;padding:0}nav .mobile-list{display:none;padding:0;margin:0}nav .mobile-list.nav-open{display:block}nav .mobile-list .nav-item{background:linear-gradient(45deg, #673AB7, #00BCD4);border-top:2px solid #fff;cursor:pointer;display:block;padding:10px 20px}nav .mobile-list .nav-item.active,nav .mobile-list .nav-item:focus,nav .mobile-list .nav-item:hover{background-color:#673ab7}nav .mobile-list .nav-item a{color:#fff;font-size:2rem}nav a{text-decoration:none}@media(min-width: 48em){nav .nav-list .nav-title a{font-size:2.5rem}nav .nav-list .nav-item{display:inline}nav .nav-list .nav-item a:before{content:"{";transform:translateX(-7px)}nav .nav-list .nav-item a:after{content:"}"}.nav-toggle{display:none}.mobile-list{display:none}}@media(max-width: 38em){nav .nav-list{padding:0 15px}nav .nav-list .nav-title a{font-size:1em}}@media(max-width: 23em){nav .nav-list .nav-title a{font-size:.75em}}h1,h2,h3,h4,h5,h6{color:#263238;font-family:"Nunito",sans-serif;font-weight:800}h1{font-size:3rem;margin-top:20px;margin-bottom:30px}h1:after{background:#263238;border-radius:4px;content:"";display:block;height:4px;width:100%}h2{margin-top:15px;font-size:2rem}h5{color:#616161}label{font-family:"Raleway",sans-serif;font-size:1.5rem;margin-bottom:0;color:#673ab7}a{color:#00bcd4;text-decoration:none}p{line-height:1.4;margin-top:0;margin-bottom:1.5rem}ul{line-height:1.4;margin-left:15px}.hidden{display:none !important}.border-circle{border-radius:50%;display:block;margin:0 auto}/*# sourceMappingURL=style.min.css.map */

diff --git a/css/sass/grid.scss b/css/sass/grid.scss
@@ -23,27 +23,31 @@ section {
     $name: nth($breakpoint, 1);
     $size: nth($breakpoint, 2);
     $container: nth($breakpoint, 3);
-    @media only screen and (min-width: $size) {
-        .container {
-            width: $container;
-        }
-        .col-#{$name} {
-            flex-grow: 1;
-            flex-basis: 0;
-            max-width: 100%;
+
+    @for $i from 1 through $grid-columns {
+        .col-#{$name},
+        .col-#{$name}-#{$i} {
             padding: 0 15px;
         }
-        @for $i from 1 through $grid-columns {
-            .col-#{$name}-#{$i} {
-                flex-basis: 100% / $grid-columns * $i;
-                max-width: 100% / $grid-columns * $i;
-                padding: 0 15px;
+
+        @media only screen and (min-width: $size) {
+            .container {
+                width: $container;
             }
-        }
-        @for $i from 1 through $grid-columns {
-            .col-#{$name}-off-#{$i} {
-                //@include flexboxgrid-sass-col-common;
-                margin-left: 100% / $grid-columns * $i;
+            .col-#{$name} {
+                flex-grow: 1;
+                flex-basis: 0;
+                max-width: 100%;
+            }
+                .col-#{$name}-#{$i} {
+                    flex-basis: 100% / $grid-columns * $i;
+                    max-width: 100% / $grid-columns * $i;
+                }
+            @for $i from 1 through $grid-columns {
+                .col-#{$name}-off-#{$i} {
+                    //@include flexboxgrid-sass-col-common;
+                    margin-left: 100% / $grid-columns * $i;
+                }
             }
         }
     }

diff --git a/css/sass/nav.scss b/css/sass/nav.scss
@@ -12,7 +12,7 @@ nav {
 		font-weight: $navbar-link-weight;
 		height: $navbar-height;
 		list-style: none;
-		padding: 0 15px;
+		padding: 0 30px;
 		margin: 0 auto;
 		max-width: 1200px;
 
@@ -85,6 +85,7 @@ nav {
 		.nav-toggle {
 			background-color: $navbar-toggle-background;
 			border: 2px solid $navbar-toggle-border-color;
+			border-radius: $border-radius-default;
 			cursor: pointer;
 			margin-left: auto;
 			padding: 5px 10px;
@@ -102,6 +103,7 @@ nav {
 
 			.icon-bar {
 				background-color: $navbar-toggle-border-color;
+				border-radius: $border-radius-default;
 				display: block;
 				height: 2px;
 				margin: 8px 0;
@@ -176,7 +178,17 @@ nav {
 }
 
 @media(max-width: 38em) {
+	nav .nav-list {
+		padding: 0 15px;
+
+		.nav-title a {
+			font-size: 1em;
+		}
+	}
+}
+
+@media (max-width: 23em) {
 	nav .nav-list .nav-title a {
-		font-size: 1em;
+		font-size: .75em;
 	}
 }

diff --git a/project/brand-guidelines.html b/project/brand-guidelines.html
@@ -57,7 +57,7 @@
 				</div>
 			</div>
 		</section>
-		<section id="contact-me" class="dark-bg">
+		<section id="contact-me" class="footer dark-bg">
 			<div class="container">
 				<h1>Contact Me</h1>
 				<div class="row">
@@ -67,11 +67,12 @@
 						</p>
 					</div>
 					<div class="col-s-6">
-						<a class="social-link" href="#"><i class="fa fa-github-square"></i></a>
-						<a class="social-link" href="#"><i class="fa fa-linkedin-square"></i></a>
+						<a class="social-link" href="https://github.com/mattbeaudin/"><i class="fa fa-github-square"></i></a>
+						<a class="social-link" href="https://www.linkedin.com/in/matt-beaudin/"><i class="fa fa-linkedin-square"></i></a>
 					</div>
 				</div>
 			</div>
 		</section>
+		<script type="text/javascript" src="../js/main.js"></script>
 	</body>
 </html>

diff --git a/project/portfolio.html b/project/portfolio.html
@@ -5,7 +5,7 @@
 		<meta charset="utf-8">
 		<meta name="viewport" content="width=device-width, initial-scale=1, shrink-to-fit=no">
 		<title>Matthew Beaudin - Portfolio</title>
-		<link rel="stylesheet" href="../css/style.css">
+		<link rel="stylesheet" href="../css/style.min.css">
 	</head>
 	<body>
 		<nav>
@@ -65,7 +65,7 @@
 				</div>
 			</div>
 		</section>
-		<section id="contact-me" class="dark-bg">
+		<section id="contact-me" class="footer dark-bg">
 			<div class="container">
 				<h1>Contact Me</h1>
 				<div class="row">
@@ -81,6 +81,6 @@
 				</div>
 			</div>
 		</section>
-		<script type="text/javascript" src="../assets/js/main.js"></script>
+		<script type="text/javascript" src="../js/main.js"></script>
 	</body>
 </html>

diff --git a/css/sass/_variables.scss b/css/sass/_variables.scss
@@ -12,6 +12,9 @@ $font-family-body: 'Raleway', sans-serif;
 $font-weight: 400;
 $line-height: 1.4;
 
+/*** Misc ***/
+$border-radius-default: 4px;
+
 /*** Icons ***/
 $icon-font-size: 4rem;
 $icon-font-color: #fff;
@@ -49,6 +52,9 @@ $navbar-title-weight: $navbar-link-weight;
 
 $navbar-toggle-border-color: #fff;
 $navbar-toggle-background: transparent;
+
+/*** Footer ***/
+$footer-height: 275px;
 
 /*** Transitions ***/
 $transition-duration: 200ms;

diff --git a/css/style.scss b/css/style.scss
@@ -8,12 +8,17 @@
 
 @import "sass/variables";
 
+html {
+    position: relative;
+    min-height: 100%;
+}
+
 body {
     background-color: $background-color;
     color: $text-color;
     font-family: $font-family-body;
     font-weight: $font-weight;
-    margin: 0;
+    margin: 0 0 $footer-height;
 }
 
 @import "sass/content";

diff --git a/index.html b/index.html
@@ -96,7 +96,7 @@
 				</div>
 			</div>
 		</section>
-		<section id="contact-me" class="dark-bg">
+		<section id="contact-me" class="footer dark-bg">
 			<div class="container">
 				<h1>Contact Me</h1>
 				<div class="row">

diff --git a/css/sass/footer.scss b/css/sass/footer.scss
@@ -1,7 +1,11 @@
 footer,
 .footer {
+    position: absolute;
+    left: 0;
     bottom: 0;
-    height: 40px;
-    position: fixed;
+    height: $footer-height;
     width: 100%;
+}
+
+@media (min-width: 122em) {
 }

diff --git a/css/sass/text.scss b/css/sass/text.scss
@@ -11,7 +11,7 @@ h1 {
 
 	&:after {
 		background: $header-color;
-		border-radius: 4px;
+		border-radius: $border-radius-default;
 		content: "";
 		display: block;
 		height: 4px;
